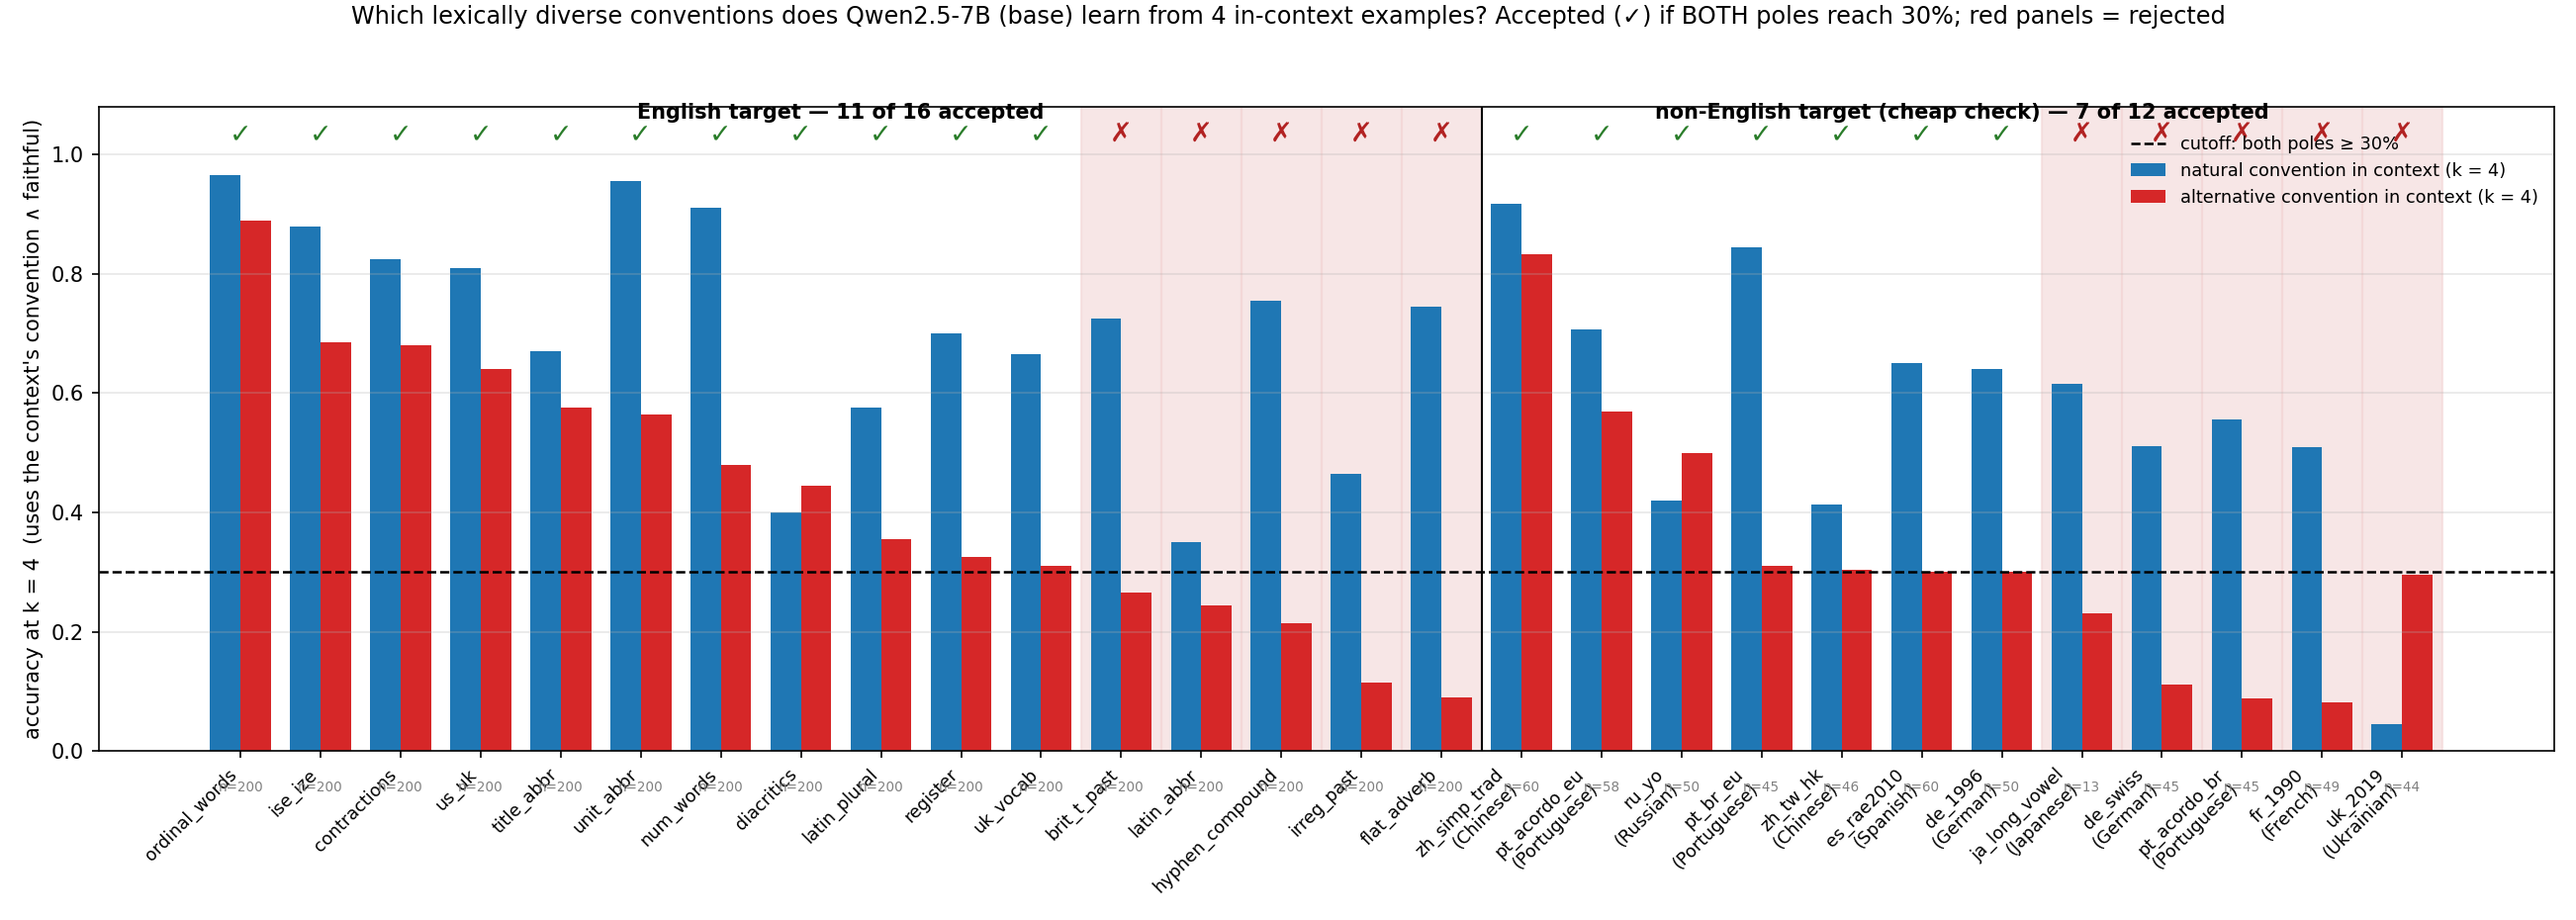
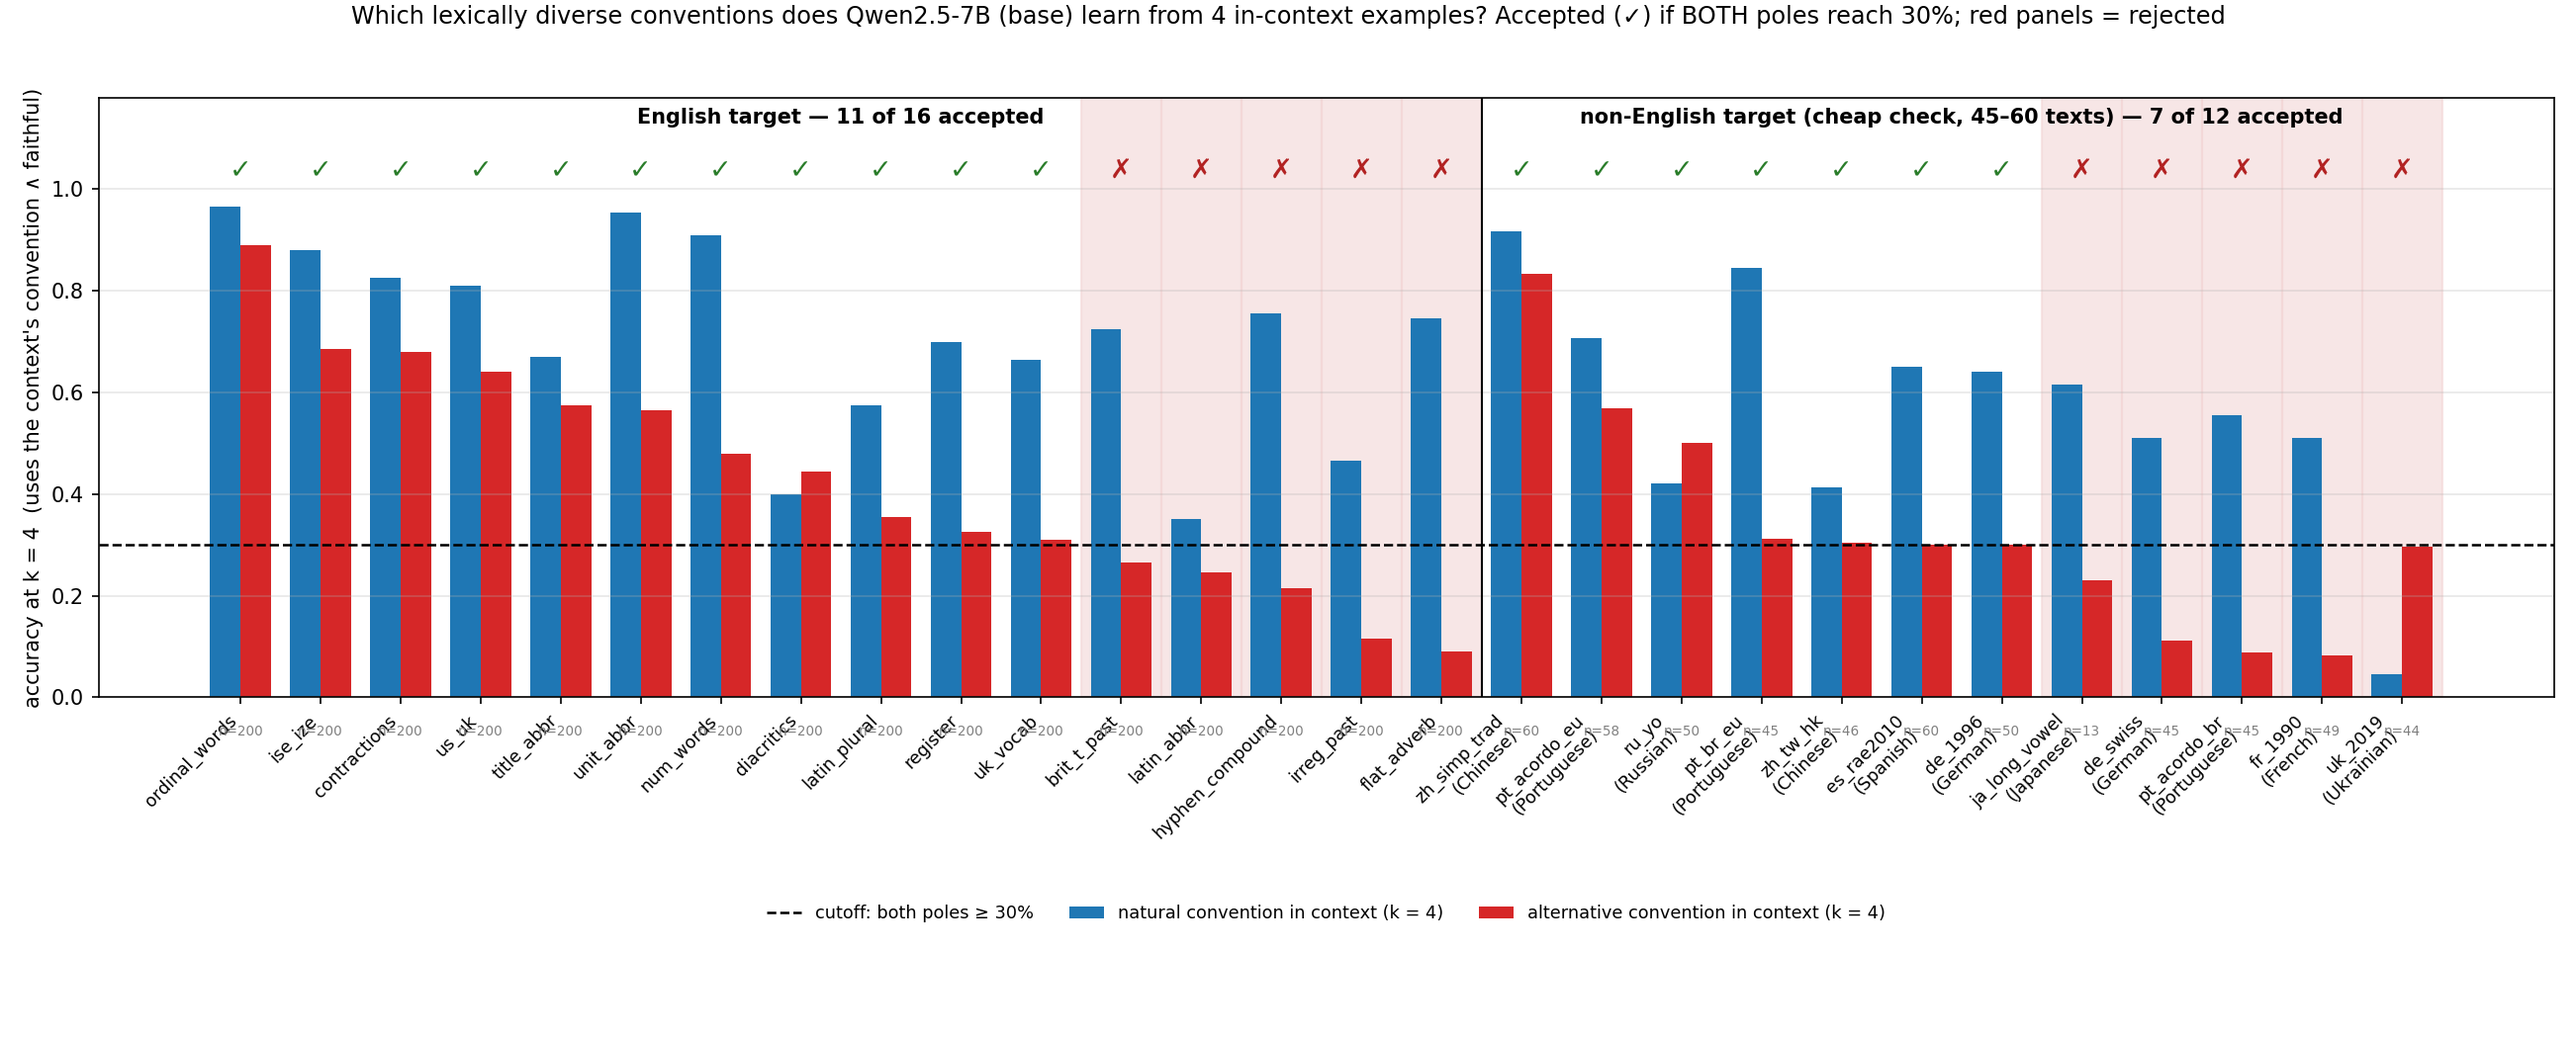
lexical_selection: legend below plot, headers clear of markers

diff --git a/src/sandbox/style_translation/lexical_selection.py b/src/sandbox/style_translation/lexical_selection.py
@@ -43,7 +43,7 @@ items.sort(key=lambda it: (it["group"] != "English", -it["min"]))
 with open(MP["results"] / "lexical_selection.csv", "w", newline="") as fh:
     w = csv.DictWriter(fh, fieldnames=list(items[0])); w.writeheader(); w.writerows(items)
 
-fig, ax = plt.subplots(figsize=(max(14, 0.62 * len(items)), 6.2))
+fig, ax = plt.subplots(figsize=(max(14, 0.62 * len(items)), 7.0))
 x = np.arange(len(items)); w = 0.38
 for i, it in enumerate(items):
     if not it["accept"]:
@@ -58,12 +58,13 @@ for i, it in enumerate(items):
     ax.text(i, -0.045, f"n={it['n']}", ha="center", va="top", fontsize=6.5, color="grey", transform=ax.get_xaxis_transform())
 ax.set_xticks(x); ax.set_xticklabels([f"{it['family']}\n({it['lang']})" if it["group"] != "English" else it["family"] for it in items], rotation=45, ha="right", fontsize=8.5)
 ax.set_ylim(0, 1.08); ax.set_ylabel("accuracy at k = 4  (uses the context's convention ∧ faithful)"); ax.grid(axis="y", alpha=0.3)
-ax.text((n_en - 1) / 2, 1.06, f"English target — {sum(it['accept'] for it in items if it['group']=='English')} of {n_en} accepted", ha="center", fontsize=10, fontweight="bold")
-ax.text(n_en + (len(items) - n_en - 1) / 2, 1.06, f"non-English target (cheap check) — {sum(it['accept'] for it in items if it['group']!='English')} of {len(items)-n_en} accepted", ha="center", fontsize=10, fontweight="bold")
-ax.legend(loc="upper right", fontsize=8.5, frameon=False, bbox_to_anchor=(1, 0.98))
+ax.text((n_en - 1) / 2, 1.13, f"English target — {sum(it['accept'] for it in items if it['group']=='English')} of {n_en} accepted", ha="center", fontsize=10, fontweight="bold")
+ax.text(n_en + (len(items) - n_en - 1) / 2, 1.13, f"non-English target (cheap check, 45–60 texts) — {sum(it['accept'] for it in items if it['group']!='English')} of {len(items)-n_en} accepted", ha="center", fontsize=10, fontweight="bold")
+ax.set_ylim(0, 1.18)
+ax.legend(loc="upper center", fontsize=8.5, frameon=False, ncol=3, bbox_to_anchor=(0.5, -0.32))
 fig.suptitle("Which lexically diverse conventions does Qwen2.5-7B (base) learn from 4 in-context examples? "
              f"Accepted (✓) if BOTH poles reach {CUT:.0%}; red panels = rejected", fontsize=11.5, y=0.995)
-fig.tight_layout(rect=(0, 0, 1, 0.96)); fig.savefig(MP["results"] / "lexical_selection.png", dpi=150)
+fig.tight_layout(rect=(0, 0.02, 1, 0.97)); fig.savefig(MP["results"] / "lexical_selection.png", dpi=150)
 print(f"{'family':14s} {'group':12s} {'nat':>5s} {'alt':>5s} {'n':>4s} verdict")
 for it in items:
     print(f"{it['family']:14s} {it['group']:12s} {it['nat']:5.2f} {it['alt']:5.2f} {it['n']:4d} {'ACCEPT' if it['accept'] else 'reject'}")
